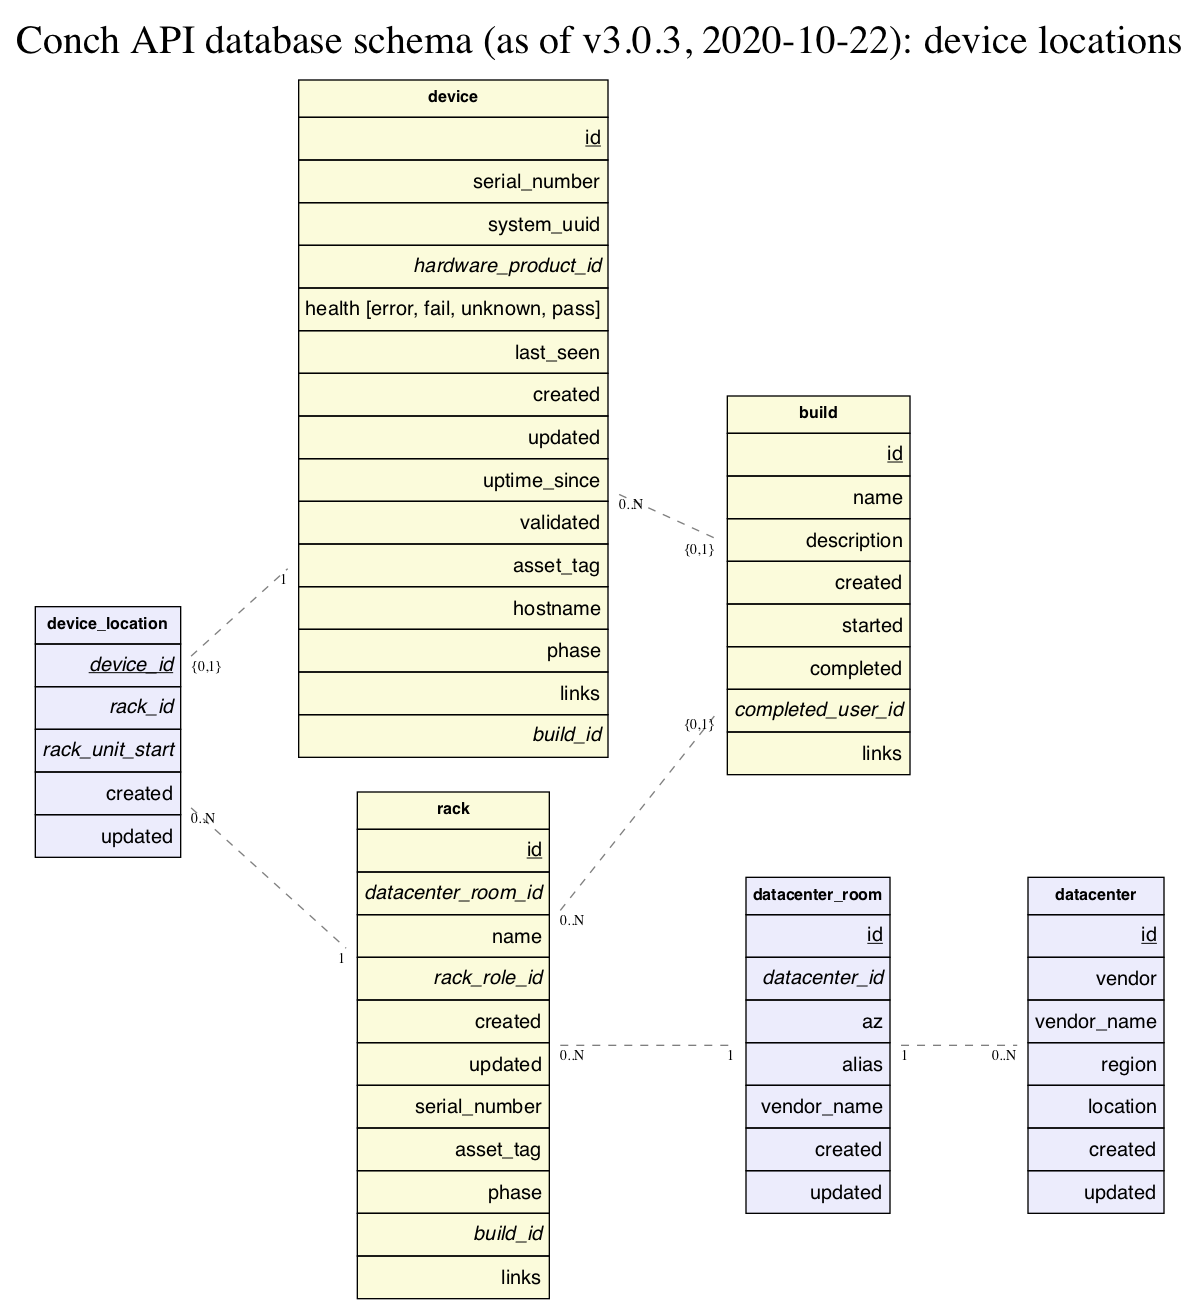
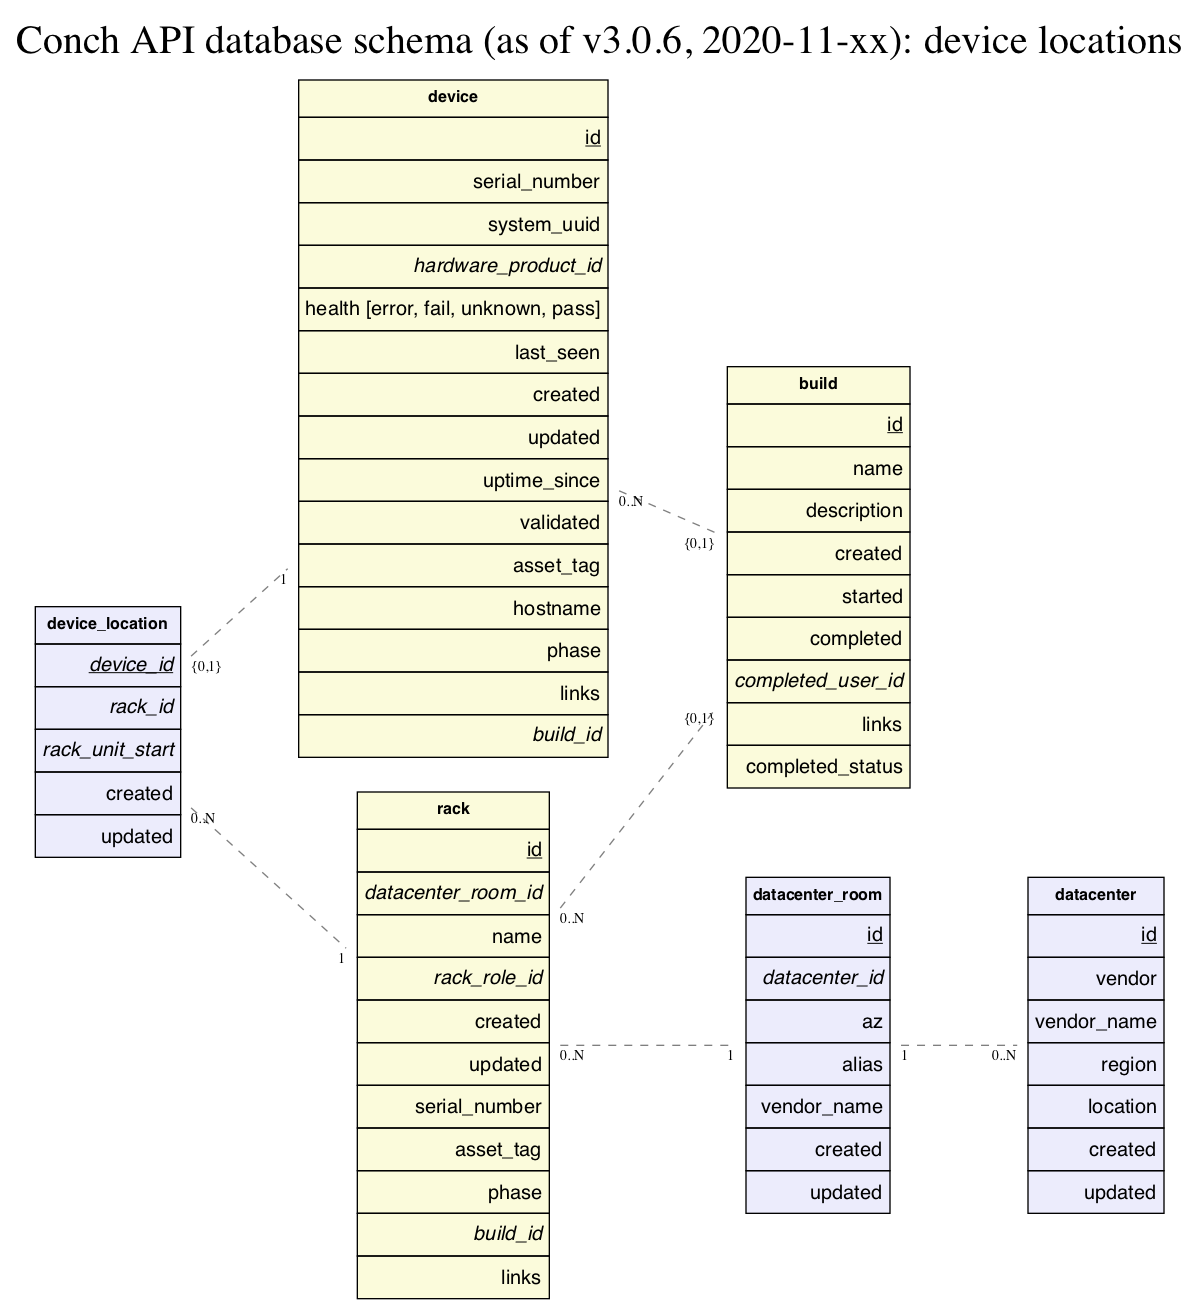
add build.completed_status
..to be returned in payloads for
GET /build/:id_or_name
GET /build

Now a build can be completed even if it has unhealthy devices.
build.completed_status = 'success' iff all devices are healthy,
and 'failure' otherwise.

diff --git a/docs/modules/Conch::DB::Result::Build.md b/docs/modules/Conch::DB::Result::Build.md
@@ -73,6 +73,14 @@ default_value: '{}'::text[]
 is_nullable: 0
 ```
 
+### completed\_status
+
+```
+data_type: 'enum'
+extra: {custom_type_name => "completed_status_enum",list => ["failure","success"]}
+is_nullable: 1
+```
+
 ## PRIMARY KEY
 
 - ["id"](#id)
